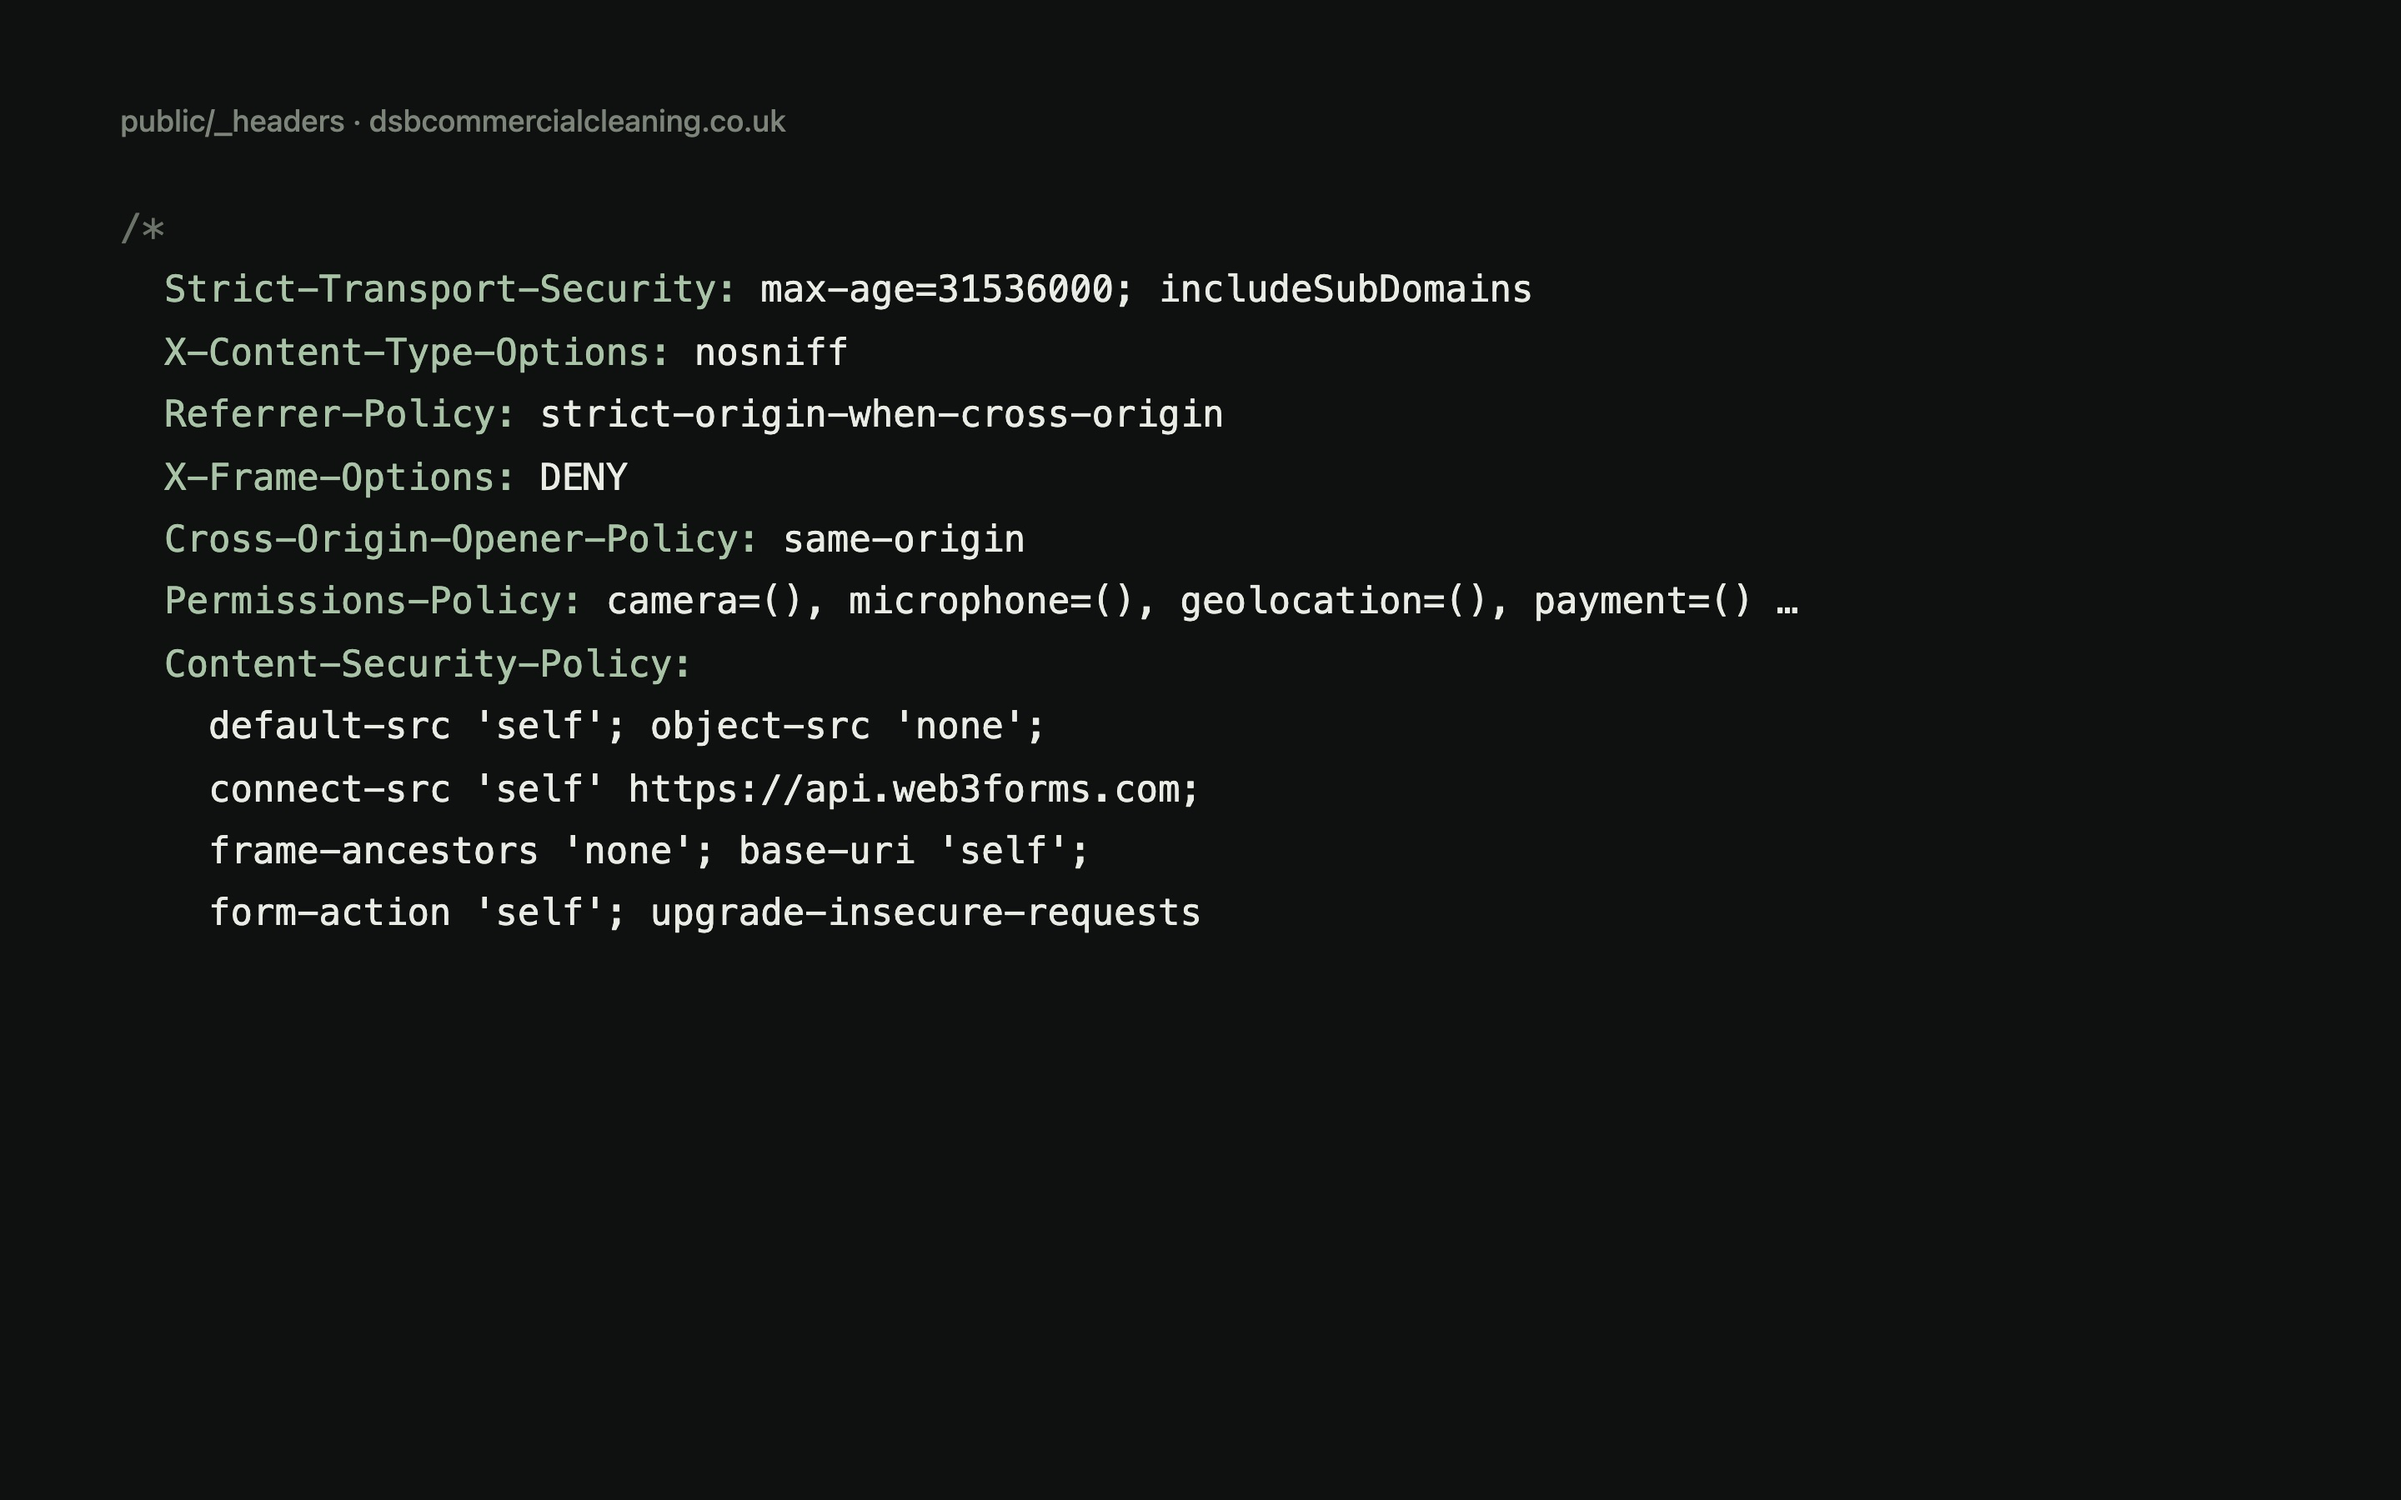
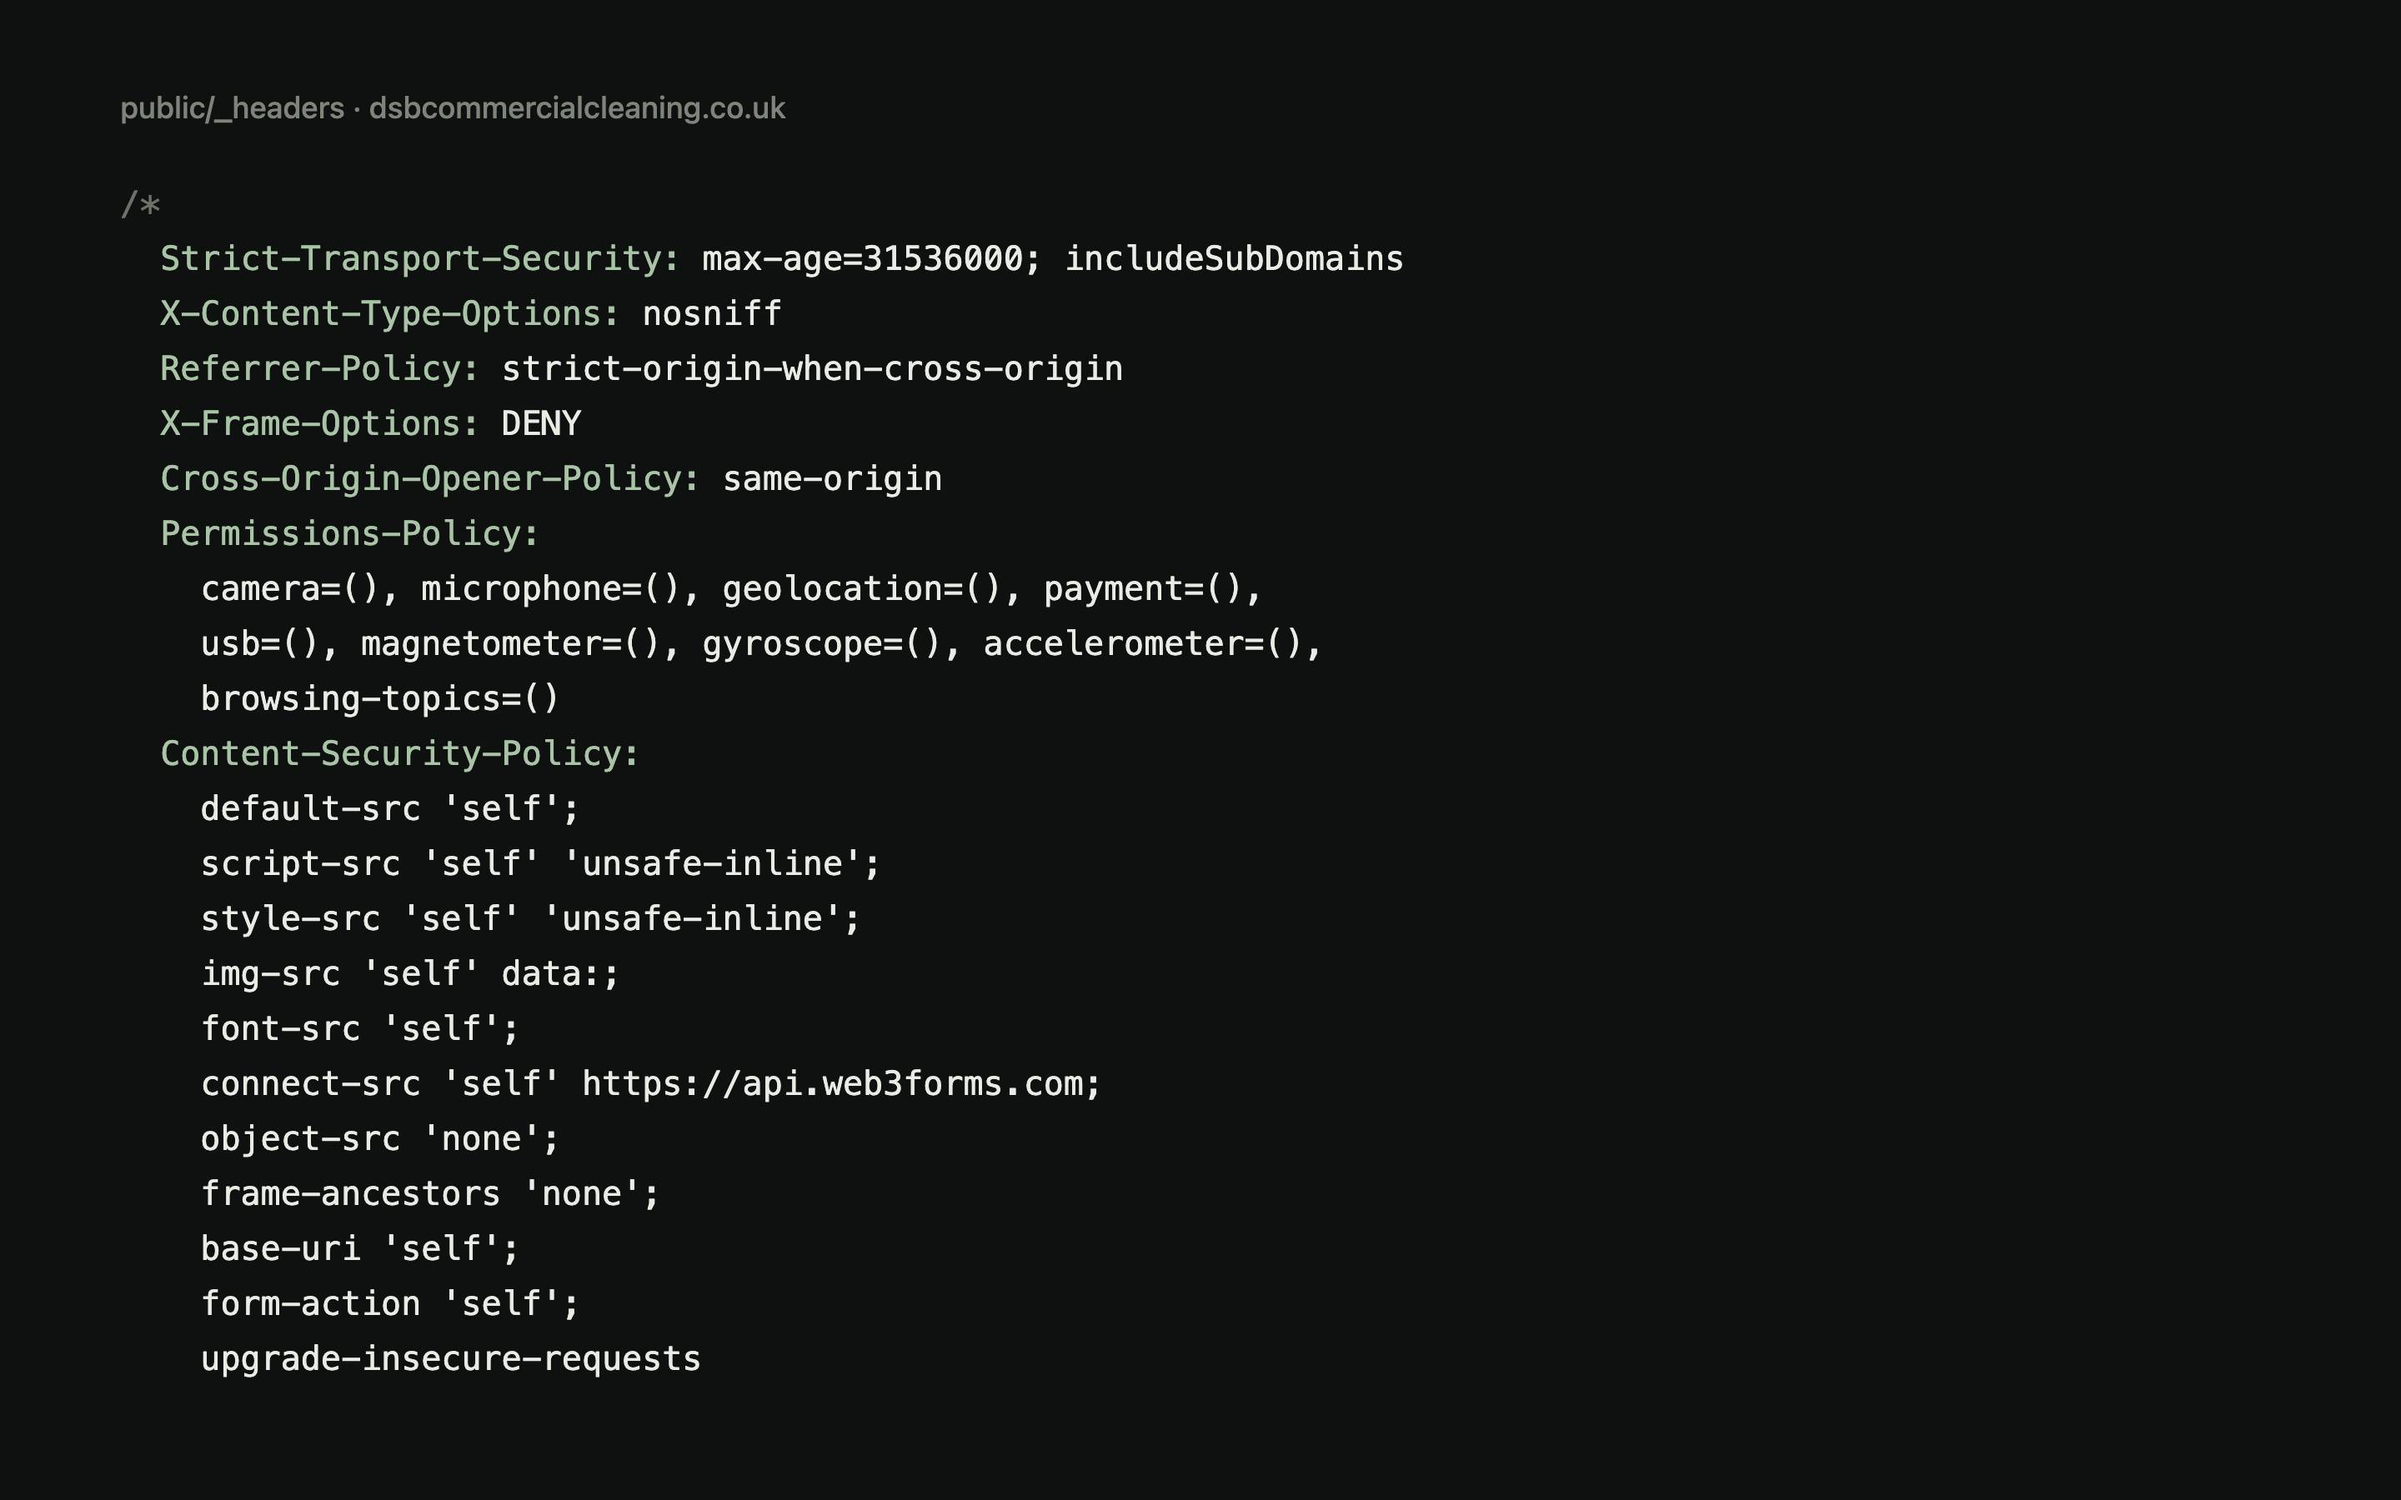
Drop unsafe-inline from script-src (#14)
* Drop unsafe-inline from script-src

- Vite no longer inlines small scripts (assetsInlineLimit: 0), so only the intro
  script in Base.astro stays inline, allowed by its sha256 hash
- img-src and worker-src lose data: and blob:, which nothing uses
- tools/csp-hash.mjs fails the check if an inline script is not hashed
- JSON-LD escapes < so a title can never close the script block
- Security-headers images rendered from the real headers: this site's for the
  toolkit, DSB's live headers (no more '…') for its case study

* Note the CSP and preview-port lessons in TODO and pre-ship

* Fix the pre-ship step 3 wording

diff --git a/tools/captures/dsb-security-headers.html b/tools/captures/dsb-security-headers.html
@@ -1,0 +1,31 @@
+<!doctype html><html><head><meta charset="utf-8"><style>
+html,body{margin:0;height:100%;background:#0f1110;color:#d9ddd5;font:20px/1.65 ui-monospace,SFMono-Regular,Menlo,monospace}
+.wrap{padding:56px 72px}
+.f{color:#7d857a;font:500 18px/1 ui-sans-serif,system-ui,sans-serif;margin-bottom:32px;letter-spacing:.01em}
+.h{color:#a9c3a7}.c{color:#6b7368}.v{color:#e9ece5}
+</style></head><body><div class="wrap">
+
+<div class="f">public/_headers · dsbcommercialcleaning.co.uk</div>
+<div class="c">/*</div>
+<div>&nbsp;&nbsp;<span class="h">Strict-Transport-Security:</span> <span class="v">max-age=31536000; includeSubDomains</span></div>
+<div>&nbsp;&nbsp;<span class="h">X-Content-Type-Options:</span> <span class="v">nosniff</span></div>
+<div>&nbsp;&nbsp;<span class="h">Referrer-Policy:</span> <span class="v">strict-origin-when-cross-origin</span></div>
+<div>&nbsp;&nbsp;<span class="h">X-Frame-Options:</span> <span class="v">DENY</span></div>
+<div>&nbsp;&nbsp;<span class="h">Cross-Origin-Opener-Policy:</span> <span class="v">same-origin</span></div>
+<div>&nbsp;&nbsp;<span class="h">Permissions-Policy:</span></div>
+<div>&nbsp;&nbsp;&nbsp;&nbsp;<span class="v">camera=(), microphone=(), geolocation=(), payment=(),</span></div>
+<div>&nbsp;&nbsp;&nbsp;&nbsp;<span class="v">usb=(), magnetometer=(), gyroscope=(), accelerometer=(),</span></div>
+<div>&nbsp;&nbsp;&nbsp;&nbsp;<span class="v">browsing-topics=()</span></div>
+<div>&nbsp;&nbsp;<span class="h">Content-Security-Policy:</span></div>
+<div>&nbsp;&nbsp;&nbsp;&nbsp;<span class="v">default-src &#x27;self&#x27;;</span></div>
+<div>&nbsp;&nbsp;&nbsp;&nbsp;<span class="v">script-src &#x27;self&#x27; &#x27;unsafe-inline&#x27;;</span></div>
+<div>&nbsp;&nbsp;&nbsp;&nbsp;<span class="v">style-src &#x27;self&#x27; &#x27;unsafe-inline&#x27;;</span></div>
+<div>&nbsp;&nbsp;&nbsp;&nbsp;<span class="v">img-src &#x27;self&#x27; data:;</span></div>
+<div>&nbsp;&nbsp;&nbsp;&nbsp;<span class="v">font-src &#x27;self&#x27;;</span></div>
+<div>&nbsp;&nbsp;&nbsp;&nbsp;<span class="v">connect-src &#x27;self&#x27; https://api.web3forms.com;</span></div>
+<div>&nbsp;&nbsp;&nbsp;&nbsp;<span class="v">object-src &#x27;none&#x27;;</span></div>
+<div>&nbsp;&nbsp;&nbsp;&nbsp;<span class="v">frame-ancestors &#x27;none&#x27;;</span></div>
+<div>&nbsp;&nbsp;&nbsp;&nbsp;<span class="v">base-uri &#x27;self&#x27;;</span></div>
+<div>&nbsp;&nbsp;&nbsp;&nbsp;<span class="v">form-action &#x27;self&#x27;;</span></div>
+<div>&nbsp;&nbsp;&nbsp;&nbsp;<span class="v">upgrade-insecure-requests</span></div>
+</div></body></html>

diff --git a/tools/captures/portfolio-security-headers.html b/tools/captures/portfolio-security-headers.html
@@ -1,0 +1,28 @@
+<!doctype html><html><head><meta charset="utf-8"><style>
+html,body{margin:0;height:100%;background:#0f1110;color:#d9ddd5;font:20px/1.65 ui-monospace,SFMono-Regular,Menlo,monospace}
+.wrap{padding:56px 72px}
+.f{color:#7d857a;font:500 18px/1 ui-sans-serif,system-ui,sans-serif;margin-bottom:32px;letter-spacing:.01em}
+.h{color:#a9c3a7}.c{color:#6b7368}.v{color:#e9ece5}
+</style></head><body><div class="wrap">
+
+<div class="f">public/_headers · this portfolio</div>
+<div class="c">/*</div>
+<div>&nbsp;&nbsp;<span class="h">Strict-Transport-Security:</span> <span class="v">max-age=31536000; includeSubDomains</span></div>
+<div>&nbsp;&nbsp;<span class="h">X-Content-Type-Options:</span> <span class="v">nosniff</span></div>
+<div>&nbsp;&nbsp;<span class="h">Referrer-Policy:</span> <span class="v">strict-origin-when-cross-origin</span></div>
+<div>&nbsp;&nbsp;<span class="h">X-Frame-Options:</span> <span class="v">DENY</span></div>
+<div>&nbsp;&nbsp;<span class="h">Cross-Origin-Opener-Policy:</span> <span class="v">same-origin</span></div>
+<div>&nbsp;&nbsp;<span class="h">Permissions-Policy:</span> <span class="v">camera=(), microphone=(), geolocation=(), payment=(), usb=()</span></div>
+<div>&nbsp;&nbsp;<span class="h">Content-Security-Policy:</span></div>
+<div>&nbsp;&nbsp;&nbsp;&nbsp;<span class="v">default-src &#x27;self&#x27;;</span></div>
+<div>&nbsp;&nbsp;&nbsp;&nbsp;<span class="v">script-src &#x27;self&#x27; &#x27;sha256-xaXIMttI0FLo69zRF1T/d3zVVT0TakuPLPoklqMRGKk=&#x27;;</span></div>
+<div>&nbsp;&nbsp;&nbsp;&nbsp;<span class="v">style-src &#x27;self&#x27; &#x27;unsafe-inline&#x27;;</span></div>
+<div>&nbsp;&nbsp;&nbsp;&nbsp;<span class="v">font-src &#x27;self&#x27;;</span></div>
+<div>&nbsp;&nbsp;&nbsp;&nbsp;<span class="v">img-src &#x27;self&#x27;;</span></div>
+<div>&nbsp;&nbsp;&nbsp;&nbsp;<span class="v">connect-src &#x27;self&#x27;;</span></div>
+<div>&nbsp;&nbsp;&nbsp;&nbsp;<span class="v">worker-src &#x27;self&#x27;;</span></div>
+<div>&nbsp;&nbsp;&nbsp;&nbsp;<span class="v">object-src &#x27;none&#x27;;</span></div>
+<div>&nbsp;&nbsp;&nbsp;&nbsp;<span class="v">base-uri &#x27;self&#x27;;</span></div>
+<div>&nbsp;&nbsp;&nbsp;&nbsp;<span class="v">form-action &#x27;self&#x27;;</span></div>
+<div>&nbsp;&nbsp;&nbsp;&nbsp;<span class="v">frame-ancestors &#x27;none&#x27;</span></div>
+</div></body></html>

diff --git a/workflows/pre-ship.md b/workflows/pre-ship.md
@@ -1,8 +1,8 @@
 # Pre-ship checklist
 
-1. `bash tools/check.sh`: 0 errors, and read the TODO(musa) list. Anything visitor-facing that still says TODO blocks launch.
+1. `bash tools/check.sh`: 0 errors, the CSP hash check passes, and read the TODO(musa) list. If the hash check fails, put the hash it prints into `script-src` in `public/_headers`, then rebuild `tools/captures/portfolio-security-headers.html` (see `workflows/add-project.md`). Anything visitor-facing that still says TODO blocks launch.
 2. `astro.config.mjs` `site` is the real domain.
-3. `npm run preview`, then screenshot every route (`/`, `/projects`, each case study, `/about`, `/blog`, `/404`) with `--full`. Read them all.
+3. `npx astro preview status` first: only one preview runs at a time, and `astro preview --port N` quietly refuses while one is up, so port N may be another project's preview. Use the port `status` reports, or `npm run preview` if none is running. Check the page title before trusting any measurement. Then screenshot every route (`/`, `/projects`, each case study, `/journey`, `/about`, `/blog`, `/404`) with `--full`. Read them all.
 4. Keyboard only: Tab from the top. Skip link appears, every control is reachable, focus ring visible, toolkit rows open with Enter.
 5. Lighthouse (Chrome DevTools) on the preview: aim for 95+ in all four.
 6. `seo-audit` skill on the home page. Check `/sitemap-index.xml` exists in `dist/`.

diff --git a/AGENTS.md b/AGENTS.md
@@ -28,7 +28,7 @@ Musa Burke's portfolio. Static site: Astro 7, TypeScript (strict), Tailwind CSS 
 - `src/scripts/motion.ts`: reveals (`data-reveal`, `data-split` word rise, `.wipe` heading bar, `data-inview`) and the hero's typed rotator.
 - `src/scripts/still.ts`: one switch for holding motion still: the OS reduced-motion setting or the drawer's "Pause motion" button (`html.still`, saved in localStorage). Heavy effects check `isStill()` and listen for `motionchange`.
 - `src/scripts/three/`: `stage.ts` (shared renderer, pauses offscreen/hidden, one still frame on reduced motion), `globe.ts` (hero wireframe network), `orb.ts` (About liquid orb). Loaded with dynamic `import()` so Three.js never blocks first paint.
-- `tools/captures/`: HTML sources for images that are rendered rather than screenshotted (e.g. `security-headers.html`).
+- `tools/captures/`: HTML sources for images that are rendered rather than screenshotted (`dsb-security-headers.html`, `portfolio-security-headers.html`; rebuild the second whenever `public/_headers` changes).
 - `src/styles/global.css`: all design tokens, buttons, links, the reveal animation, `.prose`.
 - `workflows/`: step-by-step SOPs. `tools/`: scripts the SOPs call. `.tmp/`: disposable output.
 

diff --git a/TODO.md b/TODO.md
@@ -30,7 +30,7 @@ Everything the site still needs from you. Search the code for `TODO(musa)` for t
 ## 6. Deploy
 - [ ] Real domain in `astro.config.mjs` (line 10) and `public/robots.txt` (the Sitemap line)
 - [x] Cloudflare Pages: live at https://musa-portfolio-ef2.pages.dev since 9 Nov 2026 (project `musa-portfolio`, deploys from `master`).
-- [x] CSP enforced on 10 Nov 2026, after every page showed no violations at desktop and phone width. It still allows inline scripts; tightening that is its own PR.
+- [x] CSP enforced on 10 Nov 2026, after every page showed no violations at desktop and phone width. Inline scripts are allowed by hash only since 13 Nov 2026 (`npm run check` fails if one is missing).
 
 ## 7. Journey (`src/data/journey.ts`)
 - [ ] Read the "what I learned" lines: they are condensed from your notes, so the "story" text too (`src/data/journey.ts`), and fix any that don't sound like you
